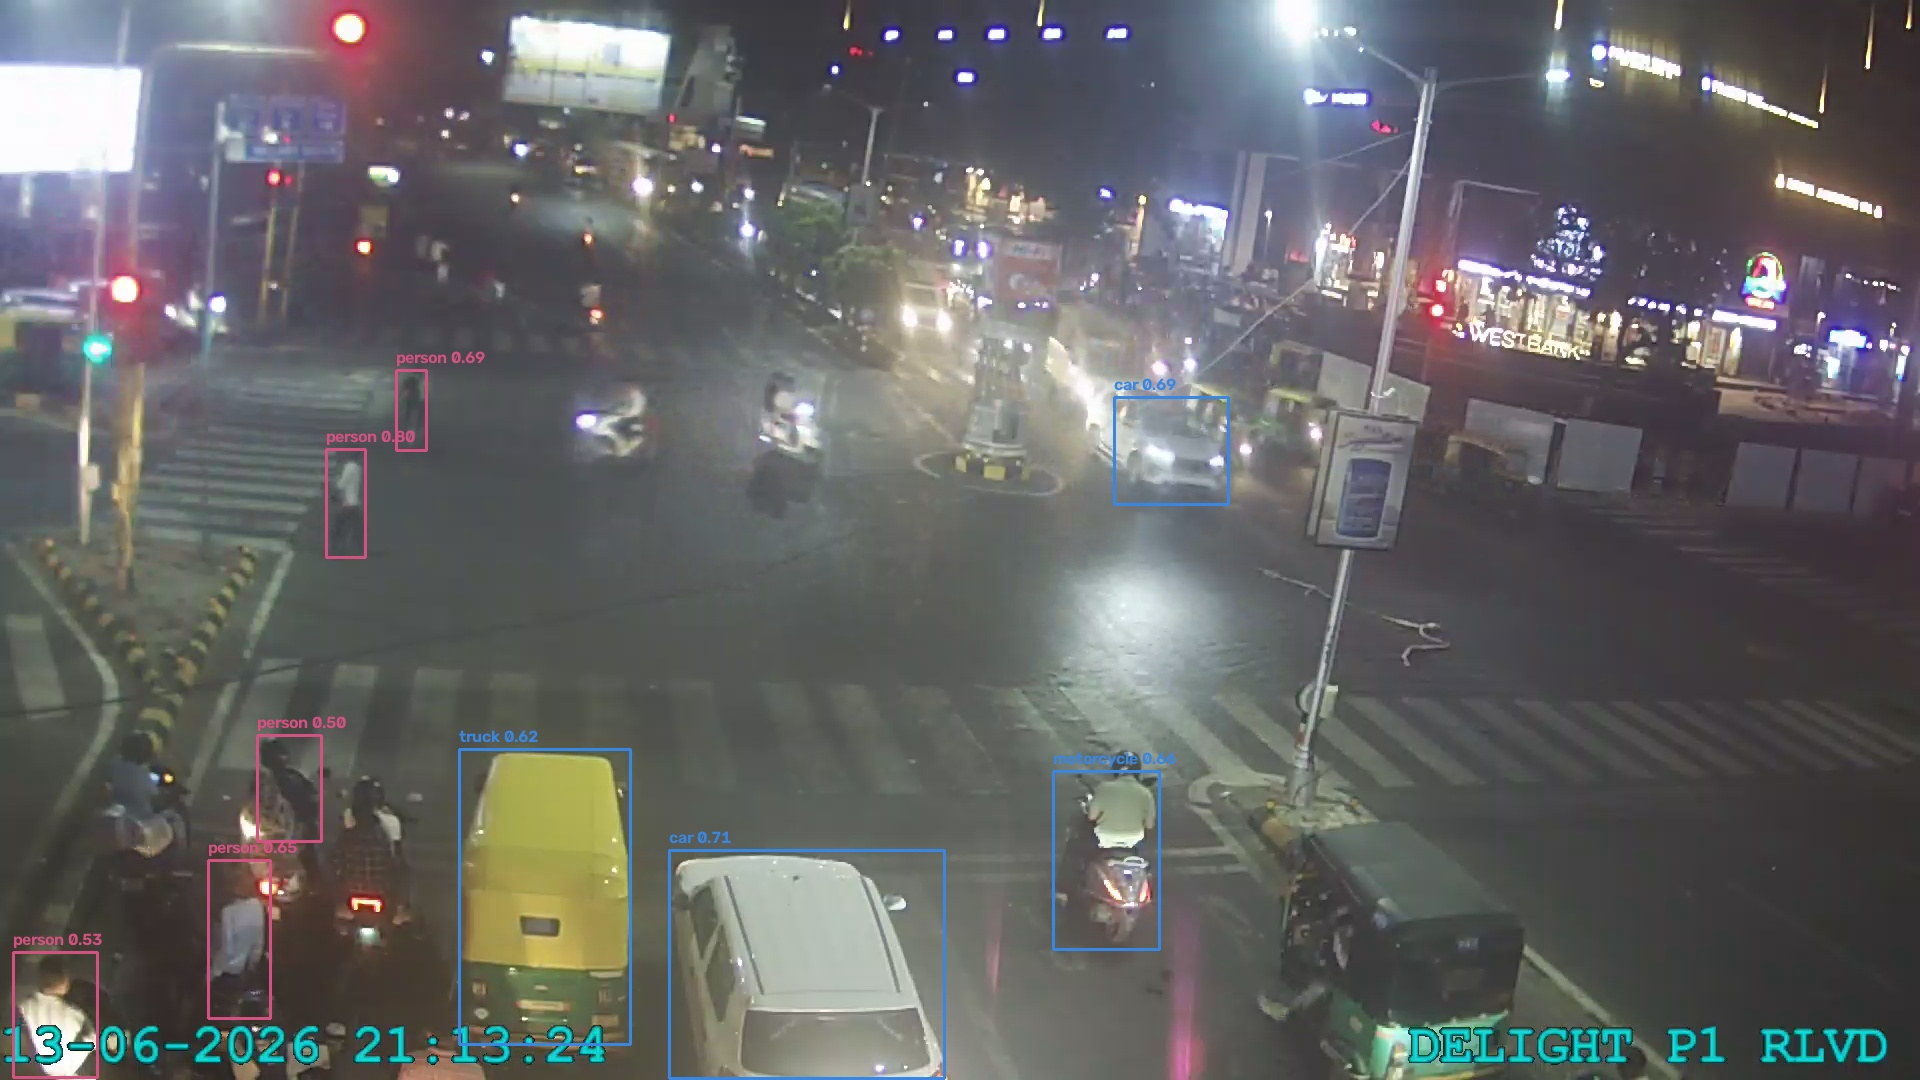
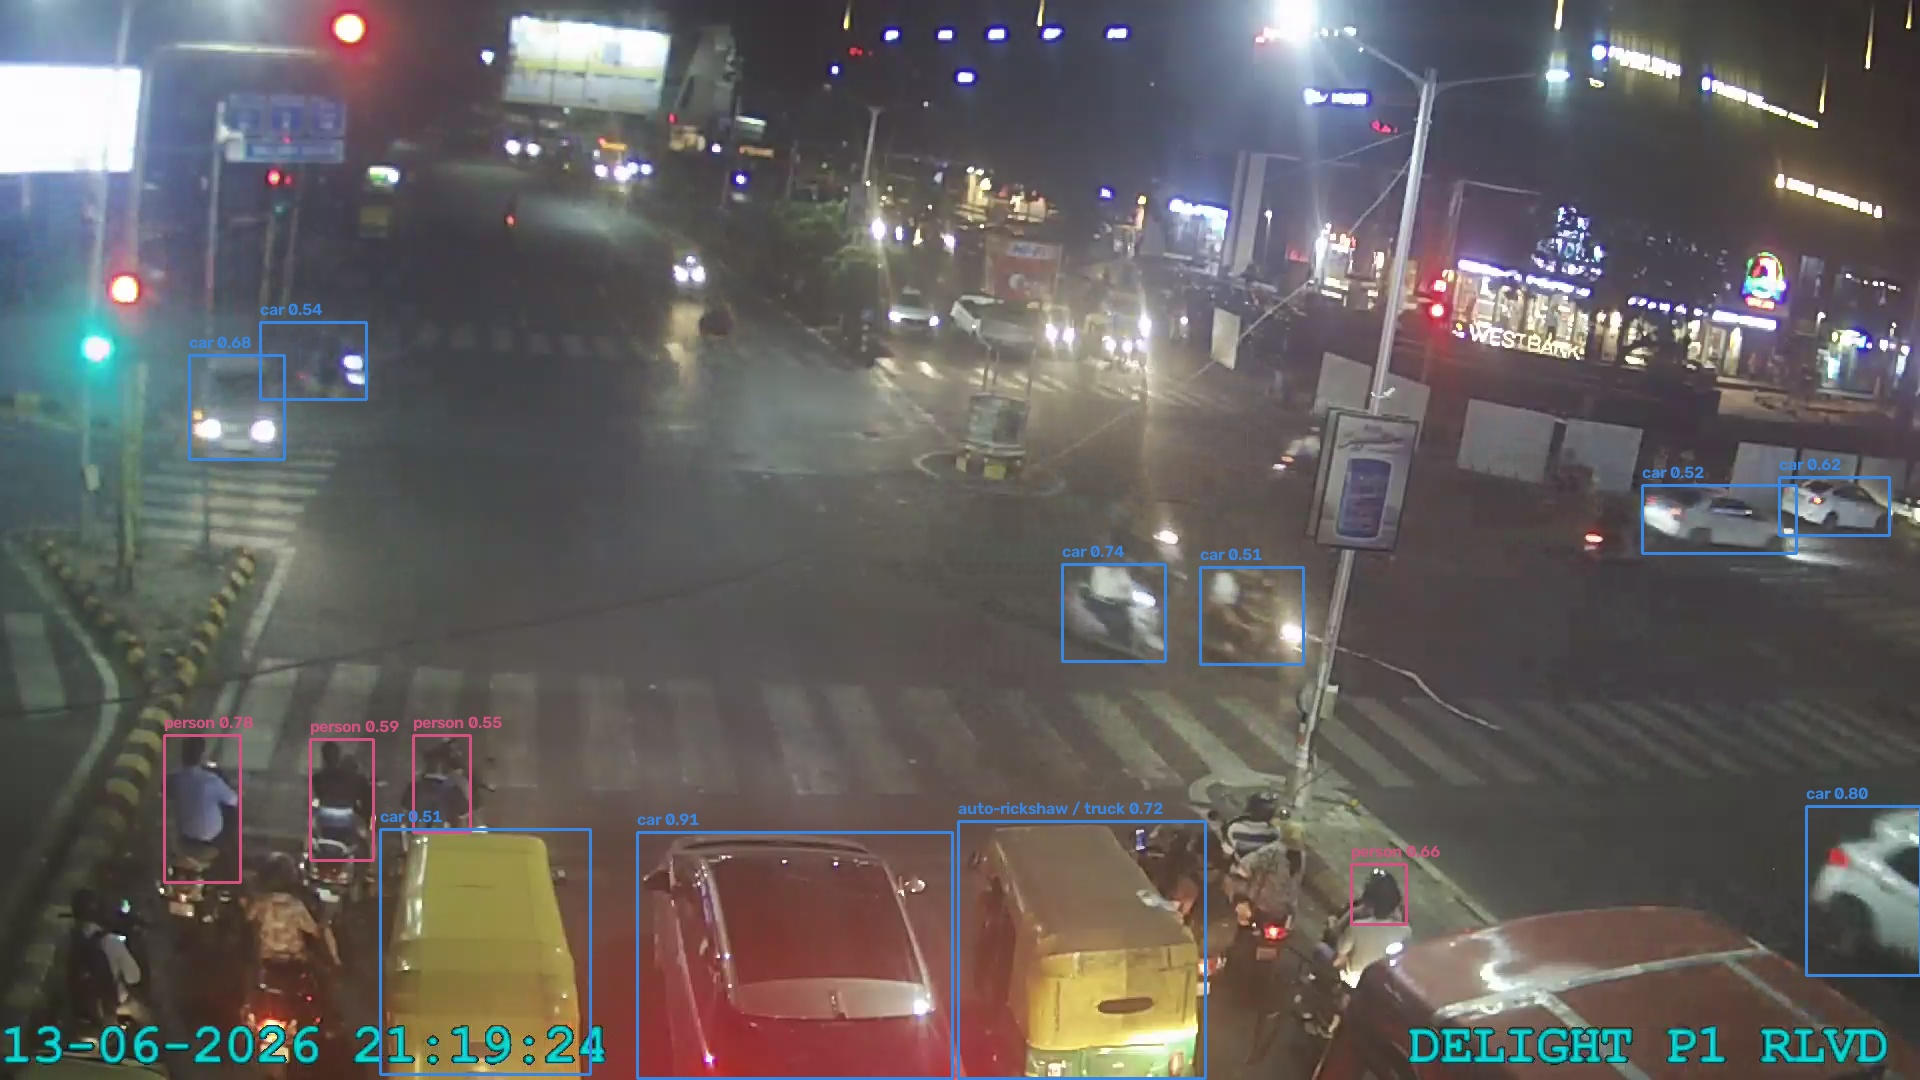
fix(scene): stop the drawn label calling an auto-rickshaw a truck
COCO has no auto-rickshaw class and the detector puts them in 'truck'. The
stored label stays 'truck' — object_detection.py argues against relabelling a
model's own output, and that argument still holds — but a frame shown to
reviewers in Gujarat should not assert that a rickshaw is a truck. The
disclosure is on the drawing only; the index is untouched.

Also keeps captions inside the frame. A box near the right edge pushed its text
off-screen and one near the top drew above the image.

Replaces the evidence frame with a busier one from the same camera: 14 objects
against 9, and the rickshaw now reads 'auto-rickshaw / truck 0.72'.

Measured while here: the confidence floor was not what hid the vehicles a
reviewer notices as missing. Detections are identical at every floor from 0.45
down to 0.20 — those objects are never proposed as candidates, so lowering the
threshold recovers nothing and only admits false positives. The limit is the
nano model's recall at that range, which is the tradeoff MEASUREMENTS 3b already
records for choosing it.

diff --git a/backend/tools/scene_analytics.py b/backend/tools/scene_analytics.py
@@ -71,15 +71,29 @@ def stream_url(camera: str) -> str:
             f"/stream/{camera}")
 
 
+# COCO has no auto-rickshaw class, and the detector puts them in 'truck'
+# consistently. The stored label stays 'truck' — see object_detection.py, where
+# relabelling the model's own output is argued against — but a frame shown to a
+# reviewer in Gujarat should not assert that an auto-rickshaw is a truck. So the
+# ambiguity is disclosed on the drawing only, and the index is untouched.
+DISPLAY_LABELS = {"truck": "auto-rickshaw / truck"}
+
+
 def annotate(frame, detections) -> None:
     """Draw boxes in place, for the demonstration video."""
     for d in detections:
         x1, y1, x2, y2 = d.bbox
         colour = BOX_COLOURS.get(d.category, (200, 200, 200))
         cv2.rectangle(frame, (x1, y1), (x2, y2), colour, 2)
-        label = f"{d.label} {d.confidence:.2f}"
-        cv2.putText(frame, label, (x1, max(18, y1 - 7)),
-                    cv2.FONT_HERSHEY_SIMPLEX, 0.55, colour, 2)
+        label = f"{DISPLAY_LABELS.get(d.label, d.label)} {d.confidence:.2f}"
+        # Keep the caption inside the frame: a box near the right edge pushed
+        # its text off-screen, and one at the top drew above the image.
+        scale, thick = 0.55, 2
+        (tw, th), _ = cv2.getTextSize(label, cv2.FONT_HERSHEY_SIMPLEX, scale, thick)
+        tx = min(x1, frame.shape[1] - tw - 4)
+        ty = max(th + 4, y1 - 7)
+        cv2.putText(frame, label, (tx, ty),
+                    cv2.FONT_HERSHEY_SIMPLEX, scale, colour, thick)
 
 
 def run(source: str, camera_native_id: str | None, seconds: int, stride: int,
